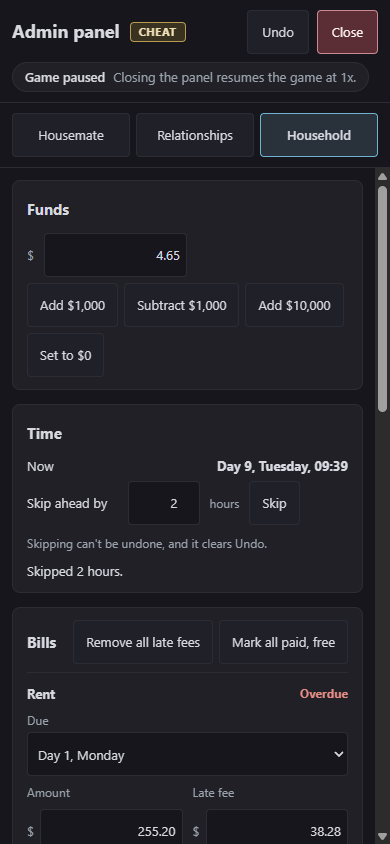
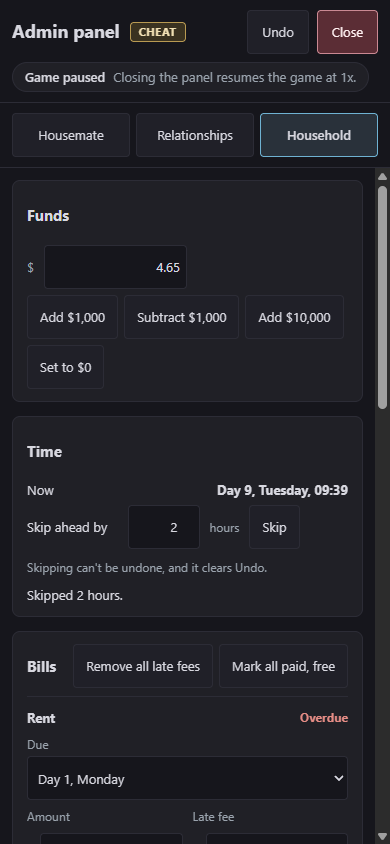
Recapture the phone admin pictures after the touch title line fix
2a93b6086 gives every admin card title a 44 px line on touch-sized
screens. The Housemate, Relationships and Household phone pictures are
captured again from that commit, with new hashes and a snapshot that
keeps the desktop pictures from 5dc36064b.

diff --git a/docs/assets/review-evidence/admin-panel/findings.md b/docs/assets/review-evidence/admin-panel/findings.md
@@ -73,3 +73,5 @@ Needs now build up one Mood from needs balance instead of separate need moodlets
 The same seven pictures were captured again from ab1a65d4c, which drops the rule under the last mood row; `layout-check.js` returned no findings and each shows one rule at the bottom of the Mood card. Older stills in this folder that show the Mood card predate that fix.
 
 All six admin guide pictures, their crops and the five stills above were captured again from 5dc36064b, which gives every card heading row a button's height so card titles line up; `layout-check.js` returned no findings, and every desktop card title measured 19 px below its card's top edge. The older stills in this folder also predate that heading fix.
+
+The three phone guide pictures were captured again from 2a93b6086, which gives every card title a 44 px line on touch-sized screens. Every card title now starts 25 px below its card's top edge, folded or open, but `layout-check.js` reports a top space larger than the side space on cards with no button beside the title (Life satisfaction, the two relationship cards, Funds and Time); that is open with the panel owner.
